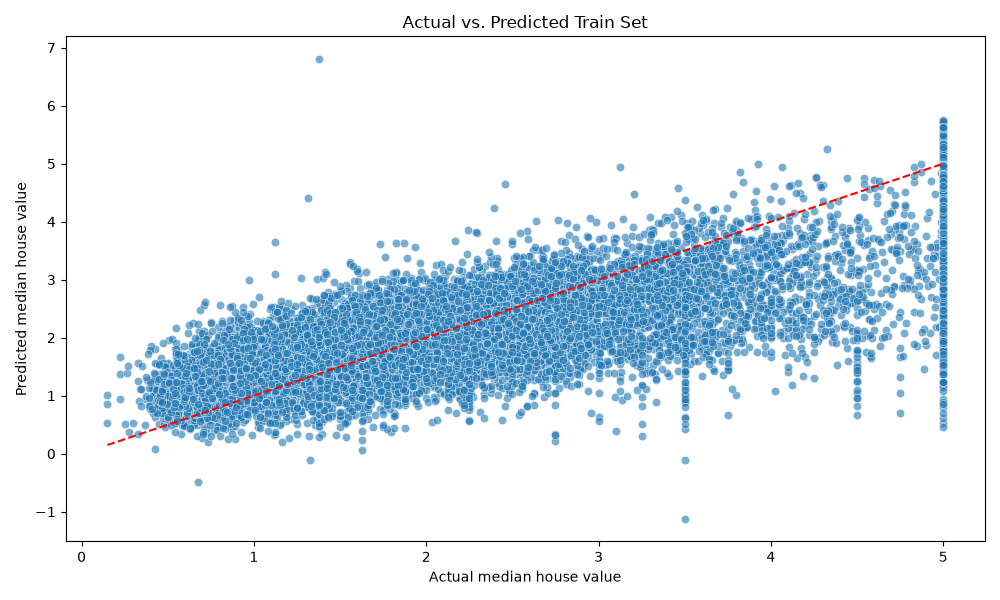
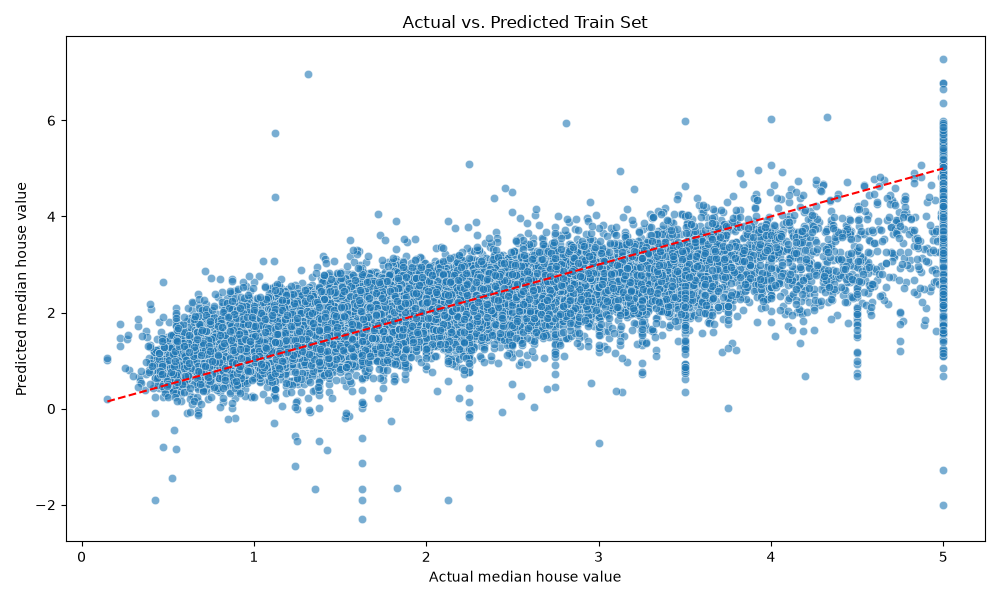
add training loss curve

diff --git a/src/a02.py b/src/a02.py
@@ -36,9 +36,9 @@ mlp_regressor = MLPRegressor(
     hidden_layer_sizes=(10, 5), # Custom hyperparameter: two hidden layers with 10 and 5 neurons
     activation='relu',
     solver='adam',
-    early_stopping=True,          # Enable early stopping
-    max_iter=1000,                # Maximum number of iterations for the solver to converge
-    batch_size=100,                # Custom hyperparameter: Use mini-batches of size 100
+    early_stopping=True,        # Enable early stopping
+    max_iter=1000,              # Maximum number of iterations for the solver to converge
+    batch_size=500,             # Custom hyperparameter: Use mini-batches of size 500
     random_state=42
 )
 
@@ -160,3 +160,16 @@ plt.tight_layout()
 plt.savefig("figures/test_residuals.png")
 plt.close()
 print("Saved figures/test_residuals.png")
+
+# Loss Curve
+# Training loss curve for the MLPRegressor
+plt.figure(figsize=(10, 6))
+plt.plot(mlp_regressor.loss_curve_)
+plt.xlabel("Iterations")
+plt.ylabel("Training Loss")
+plt.title("Training Loss Curve for MLPRegressor")
+plt.grid(True, alpha=0.3)
+plt.tight_layout()
+plt.savefig("figures/loss_curve.png")
+plt.close()
+print("Saved figures/loss_curve.png")
